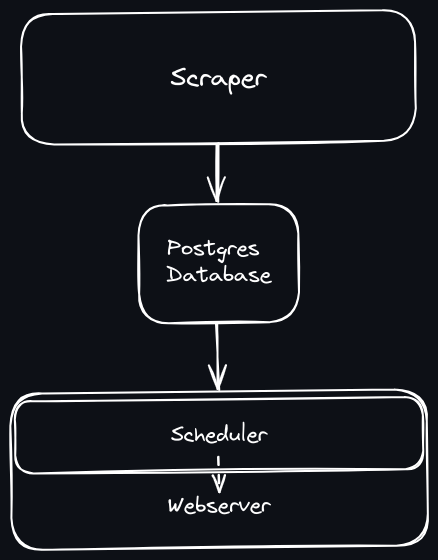
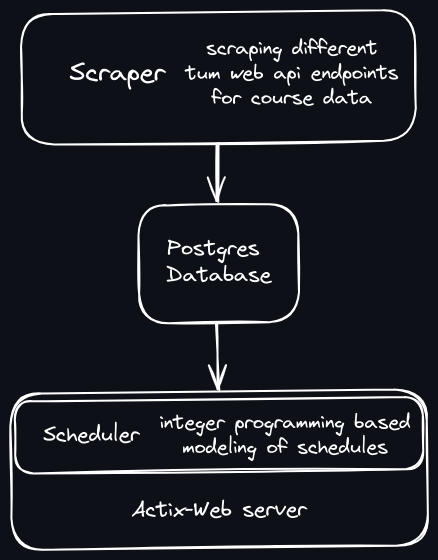
reformulated readme sections

Changed region(s): [[0.2968, 0.7286, 0.9498, 0.9411], [0.1484, 0.0607, 0.9201, 0.2125], [0.089, 0.7589, 0.3265, 0.7893]]

diff --git a/README.md b/README.md
@@ -7,15 +7,19 @@ Most courses have lecture and exercise classes, and it's common to attend all le
 However, on the TUM online platform, each part is treated as a separate course. On top of that, students have other weekly commitments like work or sports which should be factored in when designing a schedule. 
 Designing an optimal schedule becomes even more challenging when other appointments are variable, such as when working students must work two days per week but can choose which days.
 So, it's tough to create an optimal schedule that avoids clashes between lectures, exercises, and personal commitments.
+Moreover, the TUM web platform for selecting courses presents minor inconveniences, such as a cumbersome search functionality or having to consult an additional website for missing course descriptions.
 
 # Solution
-An application that can automatically create a weekly schedule for a semester considering ones personal schedule without overlap.
-Additionally giving an improved platform for browsing and choosing courses that you consider taking during the semester.
-Specifically the improvements are:
-- option to optimize the schedule with respect to some specific metric like credits or amount of courses while accounting for bounding conditions like minimum number of days. Example: For you job you have to work a minimum of two days per week, but you would also like gain a minimum of 30 credits that semester.
-- when selecting a course automatically select all lecture and exercise classes
-- the course description is often missing for the course. So most of the time you have to consult the module catalogue to understand what the course is about
-- better search through courses
+Introducing an innovative application designed to streamline the process of creating a weekly schedule for an entire semester while seamlessly integrating personal commitments to avoid any overlaps. This application not only simplifies course selection but also enhances the browsing experience on the TUM platform.
+Key features include: 
+
+- Customizable optimization options: Tailor your schedule according to specific preferences such as credit requirements or the number of courses, while accommodating constraints like minimum weekly workdays. For instance, if you need to work at least two days a week and aim to achieve a minimum of 30 credits in a semester, the application can optimize your schedule accordingly.
+
+- Automated selection of course components: Simplify course selection by automatically including all related lecture and exercise classes when choosing a course.
+
+- Comprehensive course information: Addressing the common issue of missing course descriptions, the application provides access to detailed information directly within the platform, eliminating the need to consult external sources like the module catalogue.
+
+- Enhanced search functionality: Enjoy an improved browsing experience with enhanced search capabilities, making it easier to find and select courses based on your preferences and requirements.
 
 # Usage
 Docker
